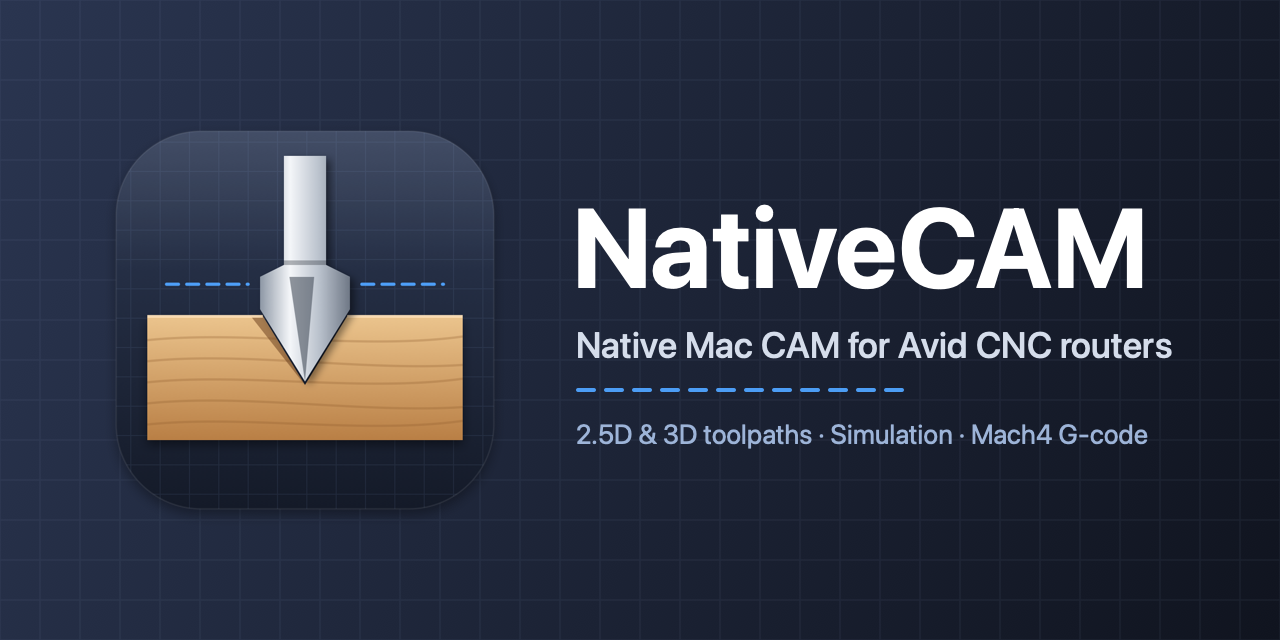
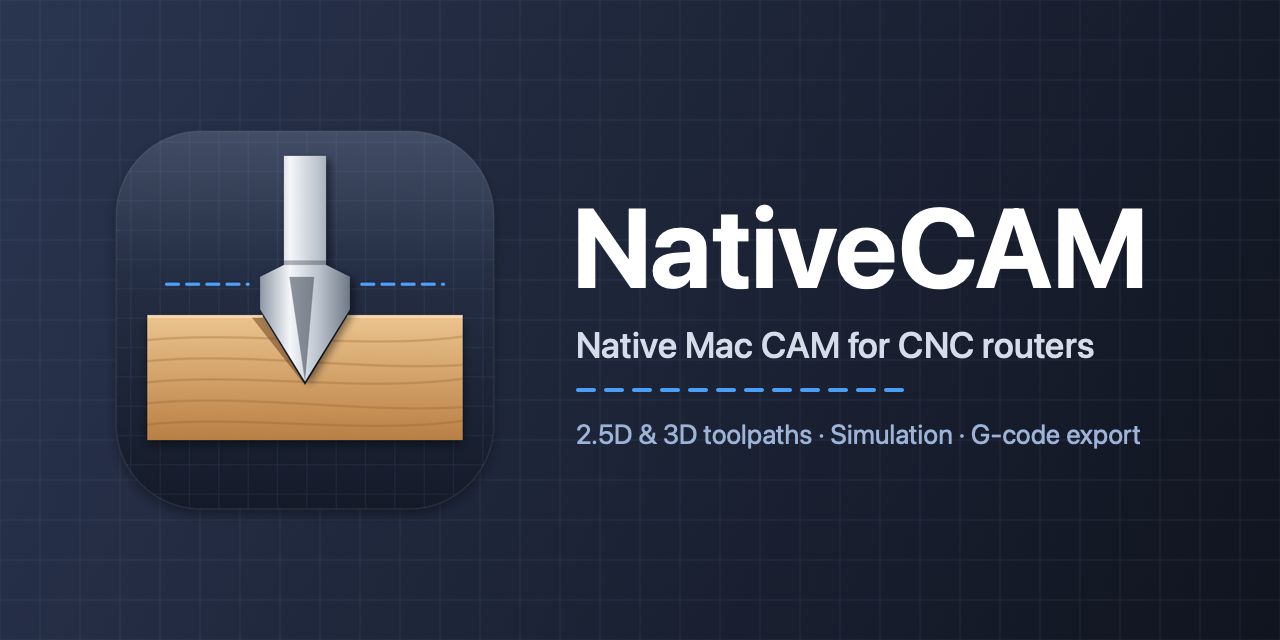
Drop Avid and Mach4 from the social preview image
The GitHub social preview now reads "Native Mac CAM for CNC routers"
and "2.5D & 3D toolpaths · Simulation · G-code export".

Changed region(s): [[0.6875, 0.5, 0.9375, 0.5625], [0.75, 0.6562, 0.9062, 0.7188]]

diff --git a/scripts/make-icon.swift b/scripts/make-icon.swift
@@ -203,7 +203,7 @@ func socialPreview(icon: CGImage) -> CGImage {
 
     let left: CGFloat = 572
     drawText(ctx, "NativeCAM", at: CGPoint(x: left, y: 352), size: 112, weight: .bold, color: color(0xFFFFFF))
-    drawText(ctx, "Native Mac CAM for Avid CNC routers", at: CGPoint(x: left + 4, y: 282), size: 36,
+    drawText(ctx, "Native Mac CAM for CNC routers", at: CGPoint(x: left + 4, y: 282), size: 36,
              weight: .medium, color: color(0xD5DDEB))
     // The icon's dashed toolpath, as a divider.
     ctx.setStrokeColor(color(0x4FA3FF, 0.95))
@@ -212,7 +212,7 @@ func socialPreview(icon: CGImage) -> CGImage {
     ctx.setLineDash(phase: 0, lengths: [16, 12])
     ctx.move(to: CGPoint(x: left + 6, y: 250)); ctx.addLine(to: CGPoint(x: left + 330, y: 250))
     ctx.strokePath()
-    drawText(ctx, "2.5D & 3D toolpaths · Simulation · Mach4 G-code", at: CGPoint(x: left + 4, y: 196), size: 27,
+    drawText(ctx, "2.5D & 3D toolpaths · Simulation · G-code export", at: CGPoint(x: left + 4, y: 196), size: 27,
              weight: .regular, color: color(0x9DB4D8))
     return ctx.makeImage()!
 }
